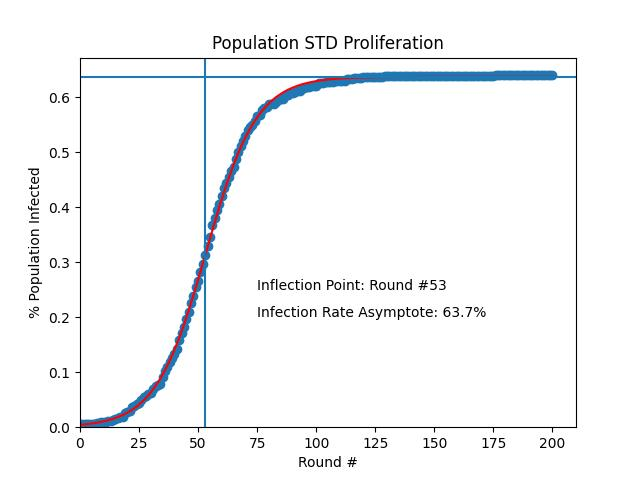
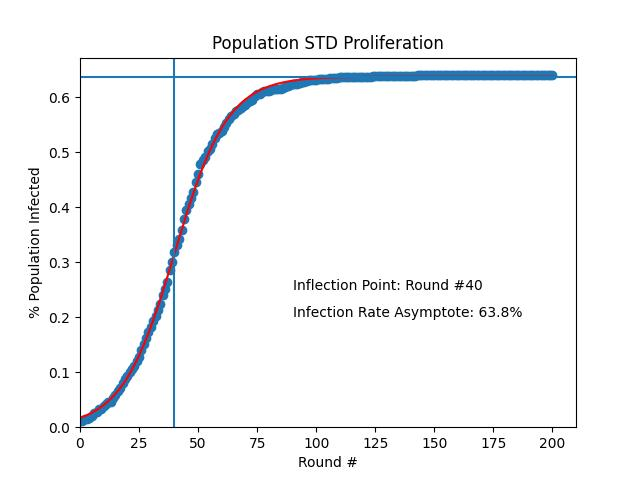
Adjusted Text on Infection Rate Plot

Changed region(s): [[0.125, 0.125, 0.5938, 0.9062], [0.4062, 0.5625, 0.8125, 0.6875], [0.6562, 0.125, 0.7812, 0.1875]]

diff --git a/simulation.py b/simulation.py
@@ -65,8 +65,8 @@ class Simulation():
         inflection_point_round = int(popt[0])
         infection_rate_asymptote = popt[1]
         plt.title('Population STD Proliferation')
-        plt.text(75, 0.25, f'Inflection Point: Round #{inflection_point_round}')
-        plt.text(75, 0.2, 'Infection Rate Asymptote: {:.1%}'.format(infection_rate_asymptote))
+        plt.text(90, 0.25, f'Inflection Point: Round #{inflection_point_round}')
+        plt.text(90, 0.2, 'Infection Rate Asymptote: {:.1%}'.format(infection_rate_asymptote))
         plt.scatter(x, y)
         plt.plot(x, logistic(x, *popt), 'r-')
         plt.xlabel('Round #')
